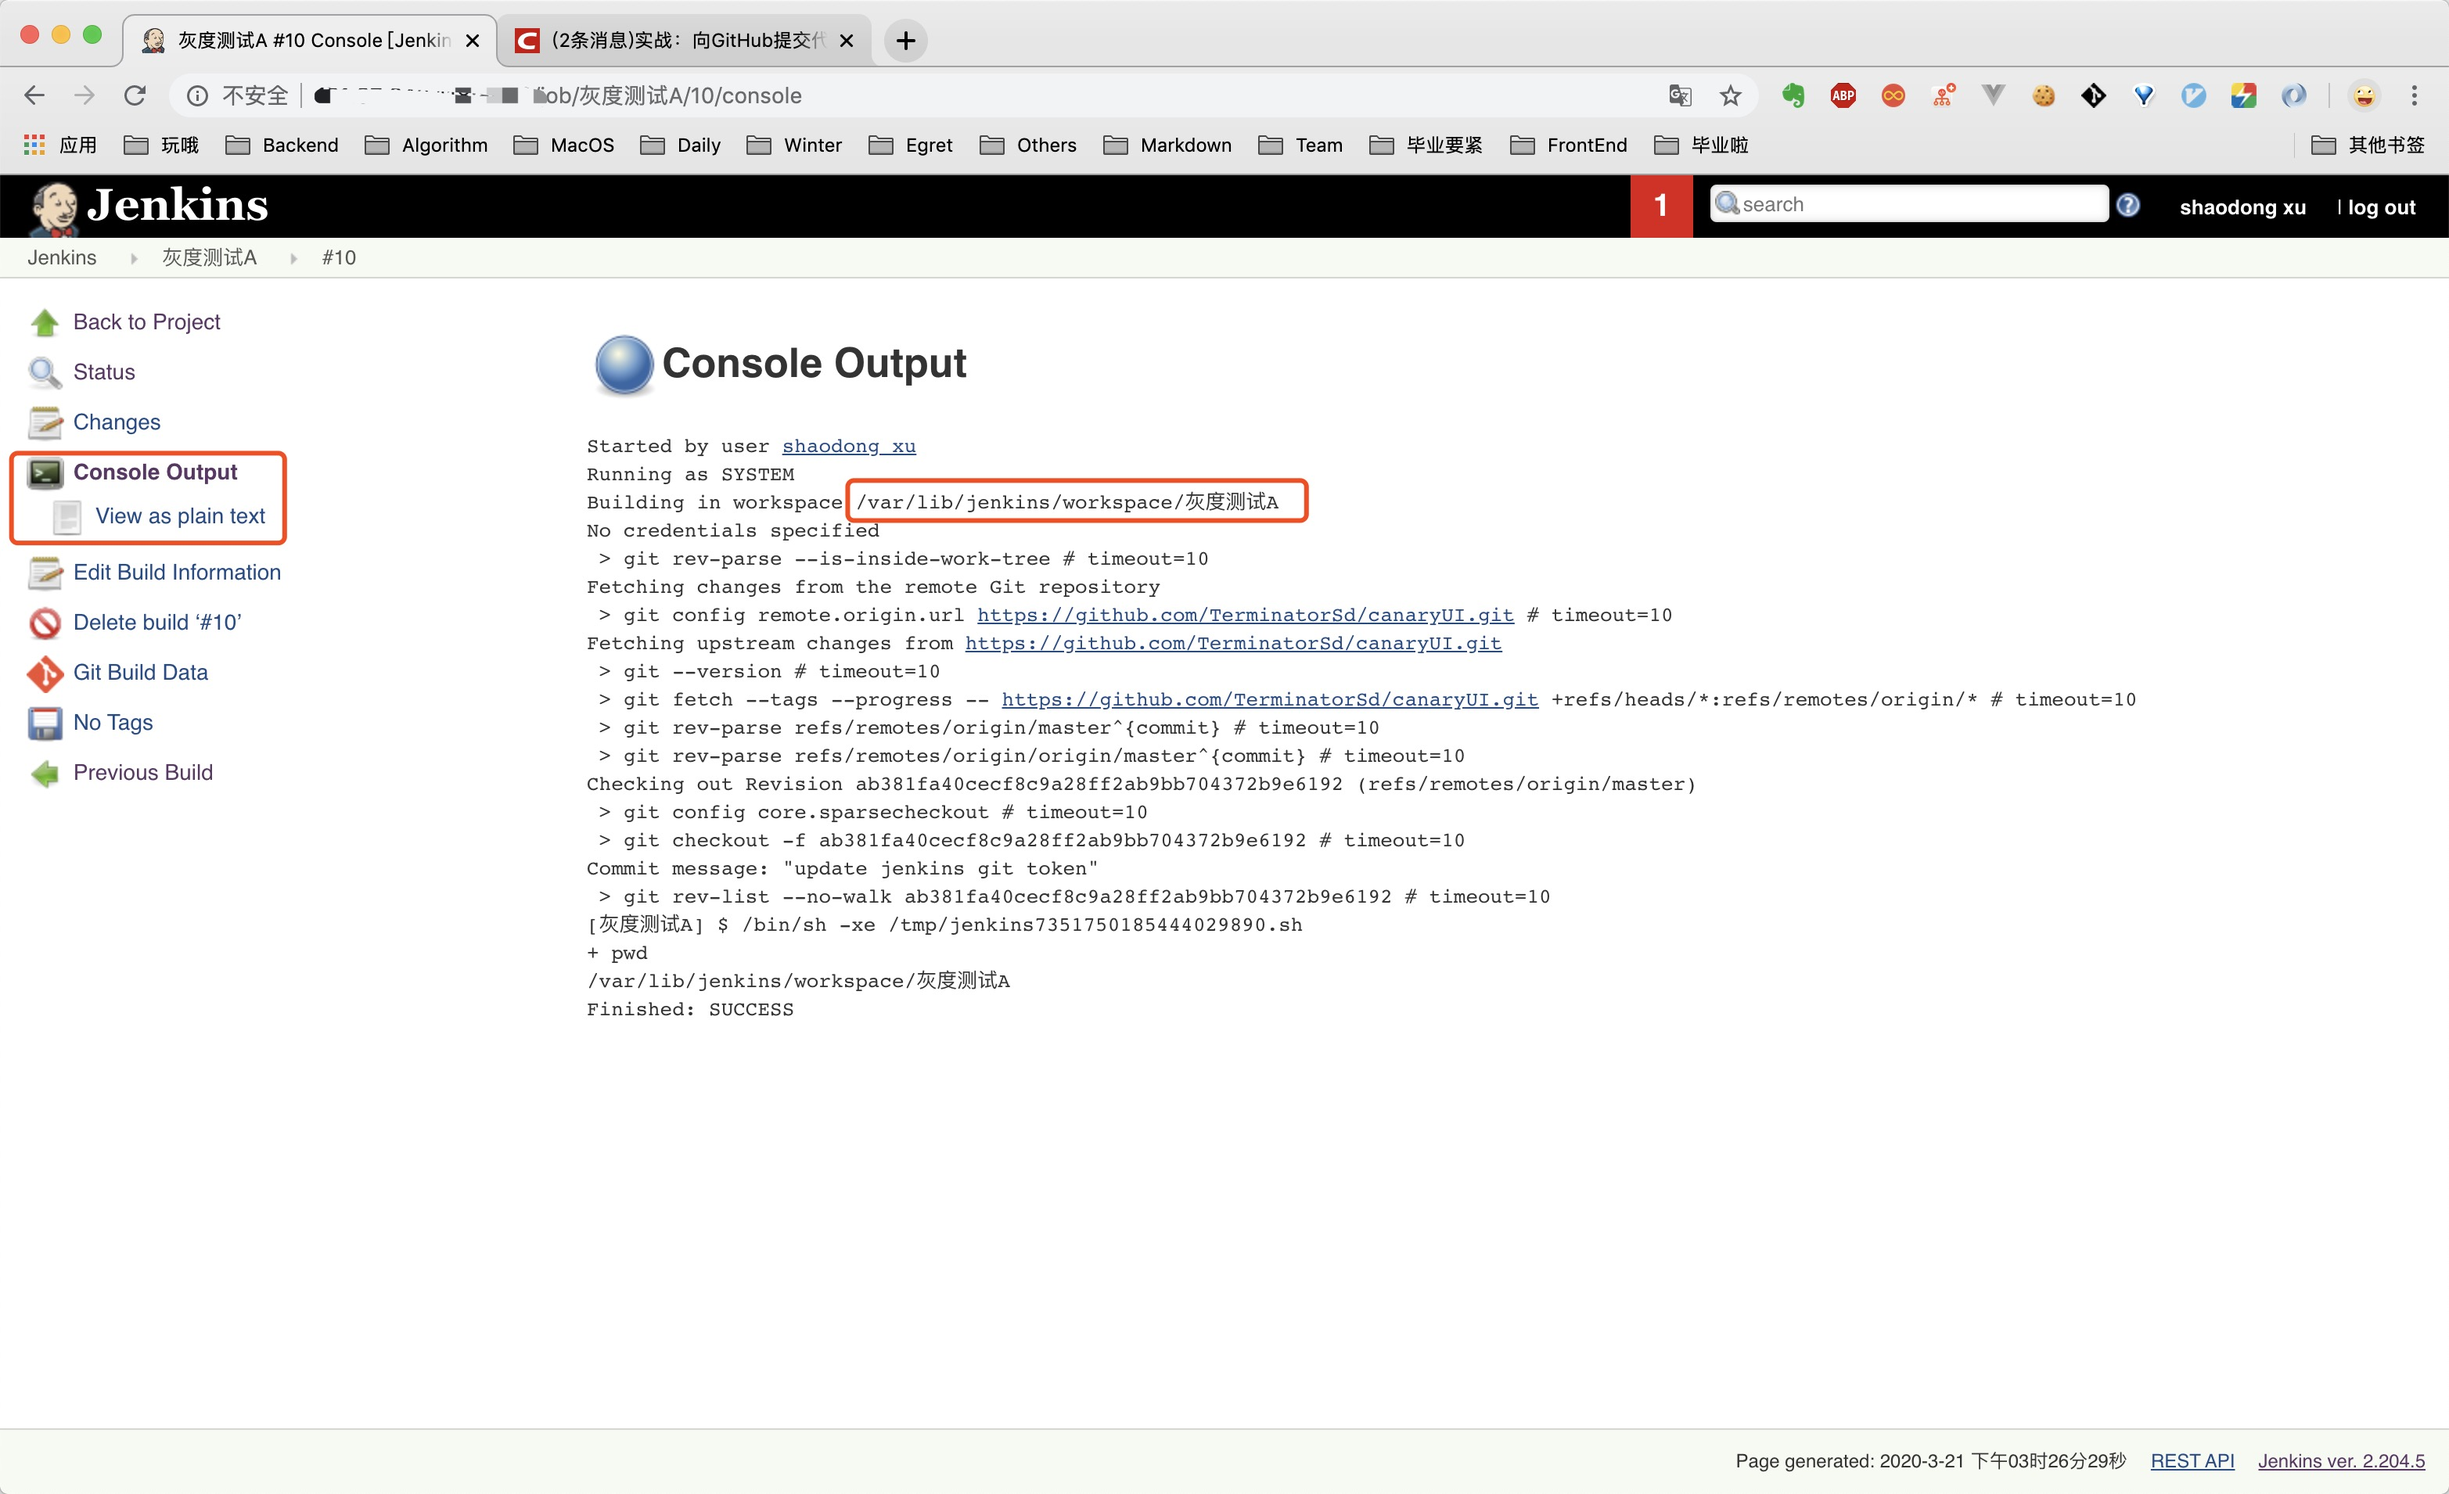
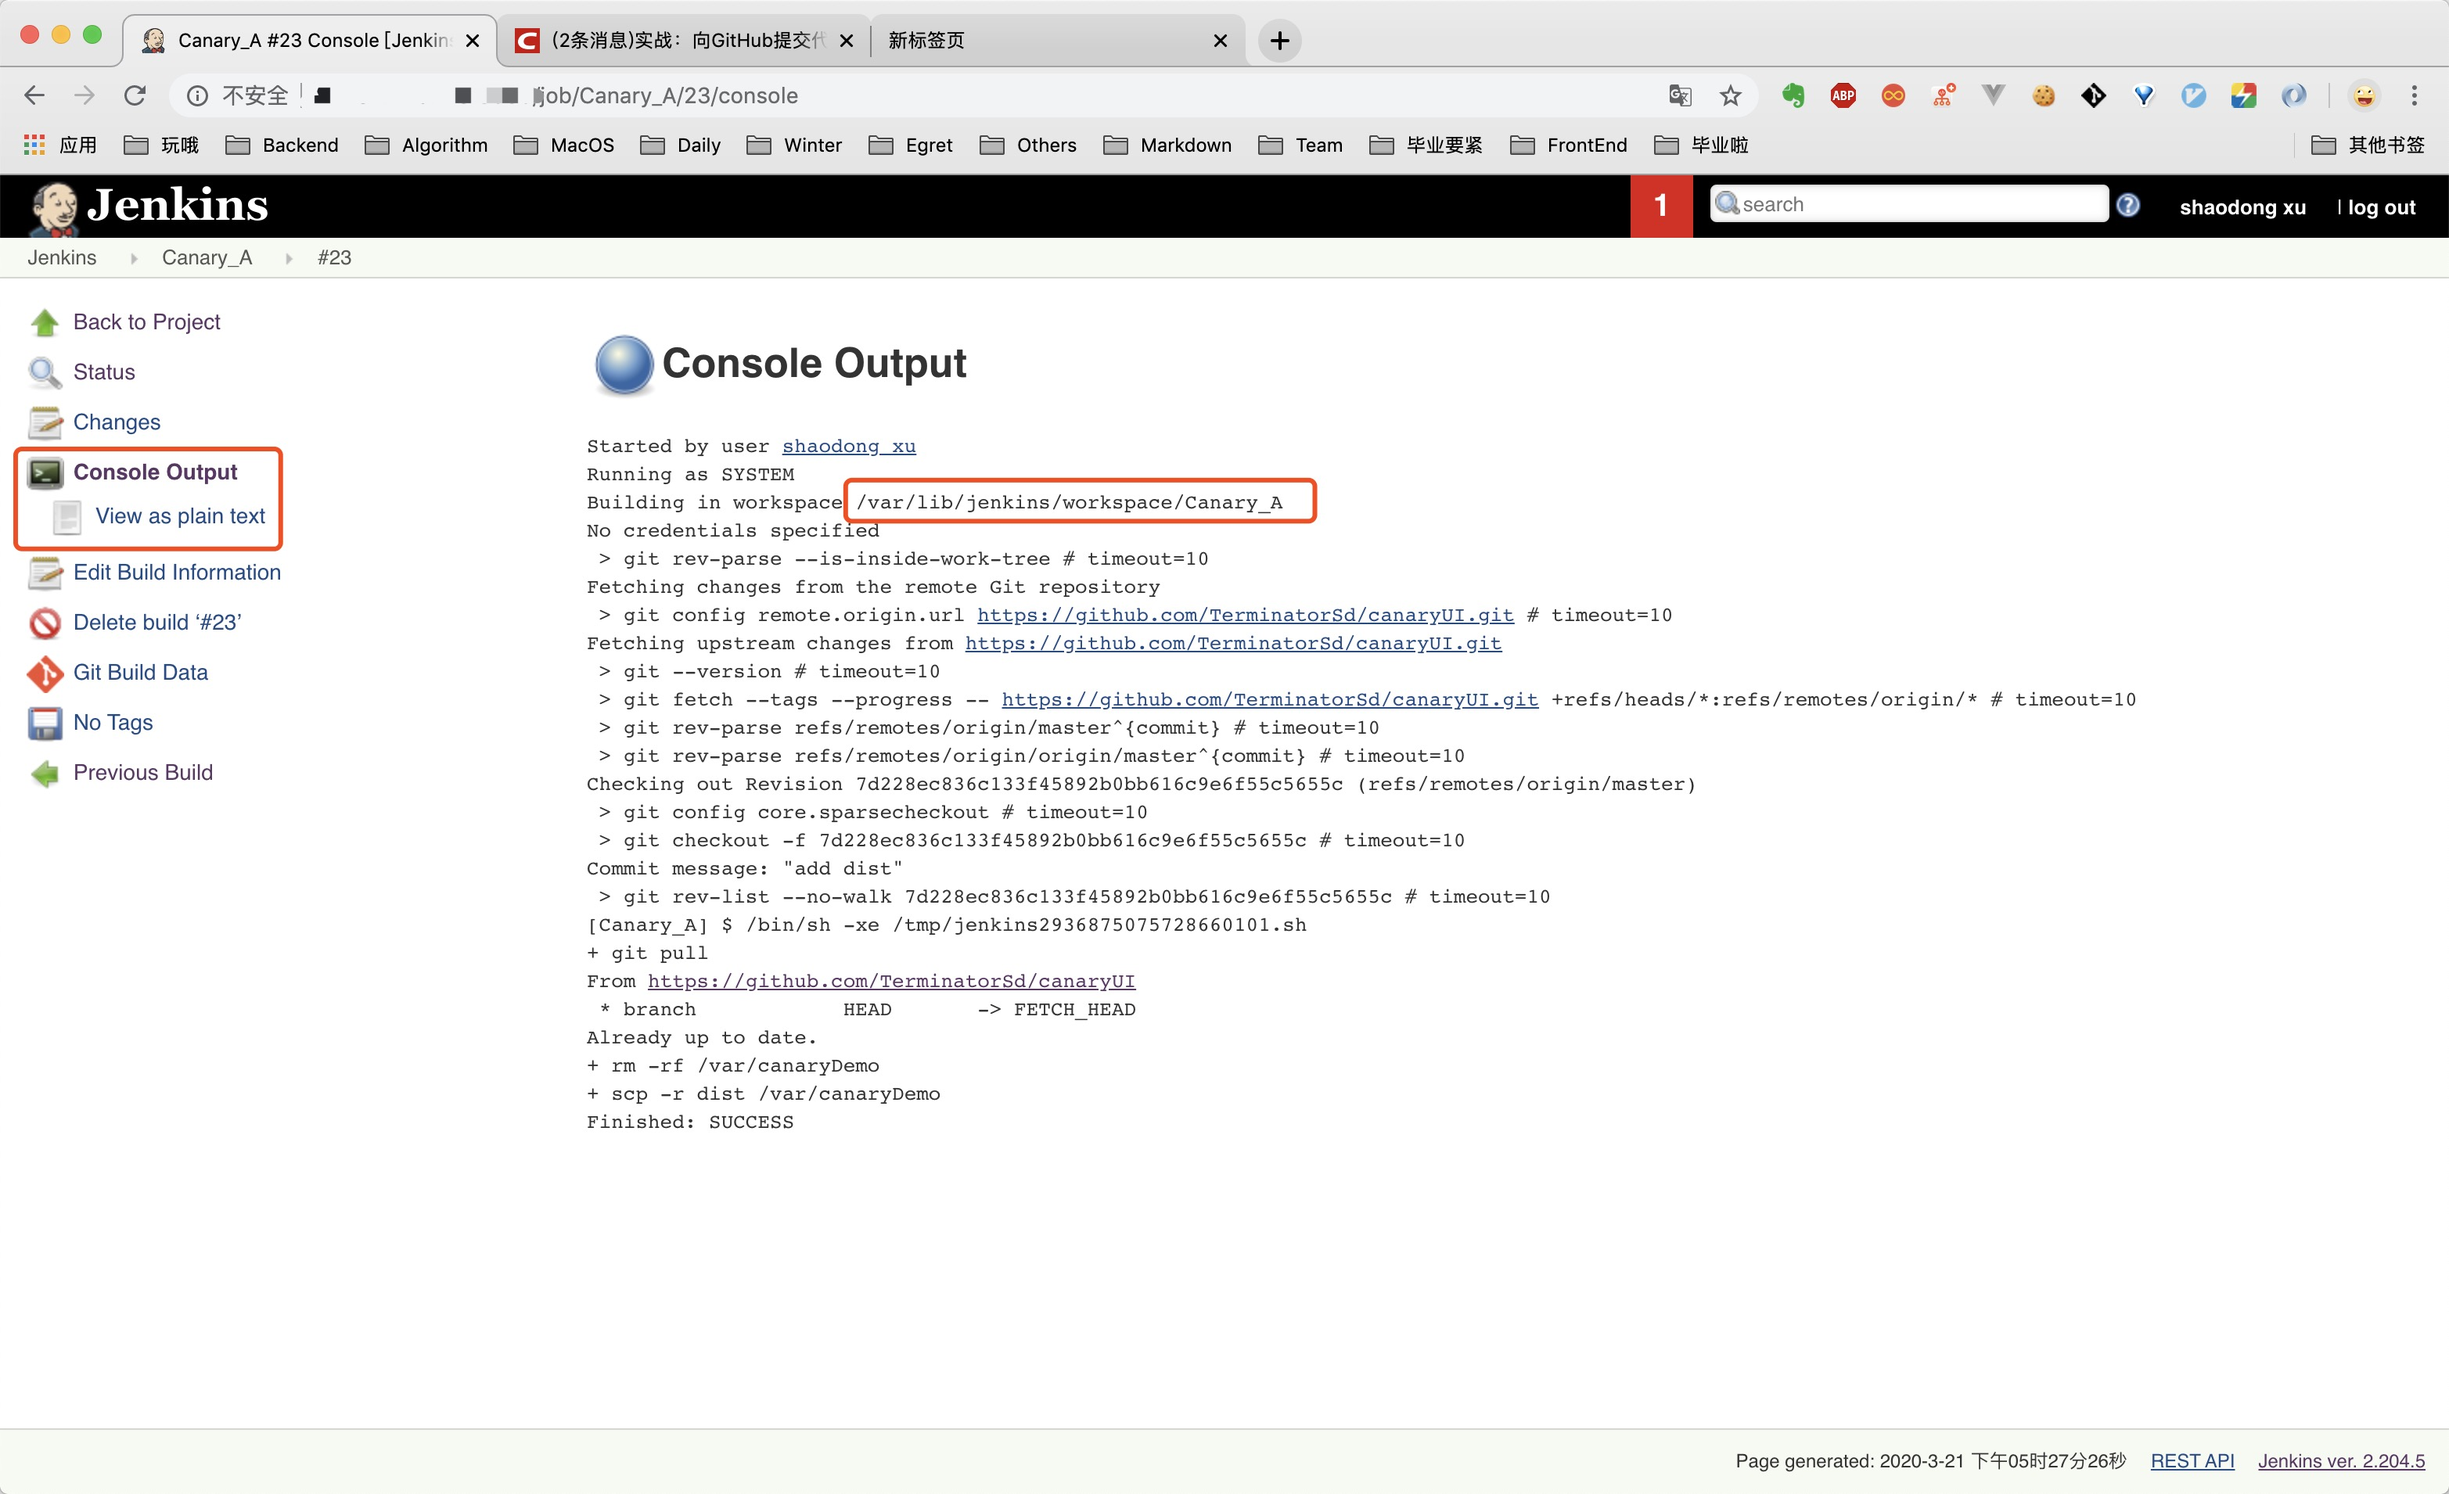
update canary

diff --git a/从零搭建一个灰度发布环境.md b/从零搭建一个灰度发布环境.md
@@ -170,7 +170,73 @@ server {
 ```
 此时，灰度流量和正常流量都会随机分配到AB两边的机器。下面，我们通过建立Jenkins 任务执行Nginx 文件修改的方式实现灰度发布。
 
-## 04 完成灰度发布
+## 04 实现灰度发布
+
+### 创建Jenkins任务
+在创建Jenkins任务之前我们先梳理一下要达到灰度发布的目标需要哪几个任务，以及每个任务负责完成什么事情。灰度发布一般遵循这样的流程（假设我们有AB两台服务器用于提供生产环境的服务，我们称之为AB边）：
+（1）新代码部署到A边
+（2）符合灰度策略的小部分流量切到A边，剩余大部分流量仍去往B边
+（3）手动验证A边功能是否正常可用
+（4）验证无误后，大部分流量转到A边，灰度流量去往B边
+（5）手动验证B边功能是否正常可用
+（6）验证无误后，流量像往常一样均分到AB边
+
+#### 任务拆解
+通过上述的拆解，我们得出灰度发布的6个步骤，其中（3）和（5）是需要手动验证的环节，所以我们以这两个任务为分割点，建立三个Jenkins 任务（Jenkins 任务建立在A 边机器上）如下：
+（1）Canary_A（灰度测试A），这个任务又包含两个部分，更新A边的代码，然后修改流量分发策略使得灰度流量到达A，其他流量到达B
+（2）Canary_AB（上线A灰度测试B），更新B边代码，灰度流量达到B，其他流量到达A
+（3）Canary_B（上线B），所有流量均分到AB
+
+![jenkins-create](./img/jenkins-create.jpg)
+
+#### 创建任务
+先按照任务拆解部分的设定创建三个FreeStyle 类型的Jenkins 任务，记得使用英文名字，中文名字后面建文件夹比较麻烦。任务详情信息可以不填，直接保存就好，下一步我们再来配置每个任务的具体信息。
+![jenkins-free](./img/jenkins-free.jpg)
+
+#### 配置任务
+现在已经创建好了三个任务，先点击进入每一个任务进行一次空的构建（否则后面可能导致修改后的构建任务无法启动），然后我们来对每个任务进行信息的配置。
+
+![jenkins-task-ok](./img/jenkins-task-ok.jpg)
+
+现代前端项目都要进行构建打包这一步。但是廉价的1核2G的云服务器在完成构建方面有些力不从心，CPU 经常爆表。**所以我们在这里把打包出得出的生产包纳入git 管理，每次的代码更新会同步最新的生产包到github，因此Jenkins 任务把生产包拉下来，放在指定位置即可完成一次新代码的部署。**
+
+这一步操作，其实我们在之前就已经完成了，我们在上面打了两份tilte 不一样的生产包，此时可以派上用场了。
+
+首先来配置灰度测试A，这个任务内容上面也基本讲清楚了，首先要关联该任务到远程的github 仓库（需要手动创建一个，存放上面打包的B-CanaryDemo，并命名为dist）让它知道可以去哪里拉取最新代码。
+
+![jenkins-no-git](./img/jenkins-no-git.jpg)
+
+执行一次构建任务（在git fetch 那一步耗时不稳定，有时比较久），然后点击本次构建进去查看Console Output，可以确定执行Jenkins 任务的位置是位于服务器上的/var/lib/jenkins/workspace/Canary_A
+
+![jenkins-build](./img/jenkins-build.jpg)
+
+![jenkins-loc](./img/jenkins-loc.jpg)
+
+继续编辑灰度测试A 任务，添加build shell，也就是每次任务执行时要执行的命令：
+（1）先拉取最新的代码
+（2）把代码根目录下的dist目录复制到部署代码的位置，这里我们指定的位置是/var/canaryDemo
+（3）**改Nginx 配置**使灰度流量到达A边 
+
+这一步填写的shell 命令在使用jenkins 用户执行时可能会遇到权限问题，可以先用root 用户登录，把/var 目录的归属改为jenkins 用户.
+```
+git pull
+rm -rf /var/canaryDemo
+scp -r dist /var/canaryDemo
+```
+
+![jenkins-shell](./img/jenkins-shell.jpg)
+
+灰度测试A 任务内容配置完成，接下来一次配置上线A 灰度测试B 和上线B。
+
+灰度测试B 的要执行的任务是把最新的代码拉到A 边（因为我们的Jenkins 任务都是建立在A 边的），复制dist 下的代码到B 边Nginx 指定访问位置，然后修改A 边Nginx 配置，使灰度流量到达B 边。
+```
+```
+
+上线B 则是修改A 边Nginx 配置是所有流量均分到AB 边.
+```
+```
+
+至此，我们就从零到一搭建了一个灰度发布环境。在代码更新后，通过手动执行Jenkins 任务的方式实现灰度部署和手工测试，保证新功能平滑上线。
 
 ## 总结
 

diff --git a/Jenkins.md b/Jenkins.md
@@ -30,55 +30,6 @@ service jenkins start/stop/restart
 开始使用Jenkins
 ![jenkins-start](./img/jenkins-start.jpg)
 
-### 创建Jenkins任务
-在创建Jenkins任务之前我们先梳理一下要达到灰度发布的目标需要哪几个任务，以及每个任务负责完成什么事情。灰度发布一般遵循这样的流程（假设我们有AB两台服务器用于提供生产环境的服务，我们称之为AB边）：
-（1）新代码部署到A边
-（2）符合灰度策略的小部分流量切到A边，剩余大部分流量仍去往B边
-（3）手动验证A边功能是否正常可用
-（4）验证无误后，大部分流量转到A边，灰度流量去往B边
-（5）手动验证B边功能是否正常可用
-（6）验证无误后，流量像往常一样均分到AB边
-
-#### 任务拆解
-通过上述的拆解，我们得出灰度发布的6个步骤，其中（3）和（5）是需要手动验证的环节，所以我们以这两个任务为分割点，建立三个Jenkins 任务（Jenkins 任务建立在A 边机器上）如下：
-（1）灰度测试A，这个任务又包含两个部分，更新A边的代码，然后修改流量分发策略使得灰度流量到达A，其他流量到达B
-（2）上线A灰度测试B，更新B边代码，灰度流量达到B，其他流量到达A
-（3）上线B，所有流量均分到AB
-
-![jenkins-create](./img/jenkins-create.jpg)
-
-#### 创建任务
-先按照任务拆解部分的设定创建三个FreeStyle 类型的Jenkins 任务，记得使用英文名字，中文名字后面建文件夹比较麻烦。任务详情信息可以不填，直接保存就好，下一步我们再来配置每个任务的具体信息。
-![jenkins-free](./img/jenkins-free.jpg)
-
-#### 配置任务
-现在已经创建好了三个任务，先点击进入每一个任务进行一次空的构建（否则后面可能导致修改后的构建任务无法启动），然后我们来对每个任务进行信息的配置。
-
-![jenkins-task-ok](./img/jenkins-task-ok.jpg)
-
-首先是灰度测试A，灰度测试A要做的事情是下载最新代码到Jenkins 所在的服务器，然后修改流量分发策略（A 边机器的Nginx 配置），使得灰度流量访问A 边的最新代码，其余流量访问B 边的代码。
-
-现代前端项目都要进行构建打包这一步。但是廉价的1核2G的云服务器在完成构建方面有些力不从心，CPU 经常爆表。**所以我们在这里把打包出得出的生产包纳入git 管理，每次的代码更新会同步最新的生产包到github，因此Jenkins 任务把生产包拉下来，放在指定位置即可完成一次新代码的部署。**
-
-讲到这里，灰度测试A 的任务内容也基本讲清楚了，开始对任务进行配置，首先要关联该任务到远程的github 仓库让它知道可以去哪里拉取最新代码。
-
-![jenkins-no-git](./img/jenkins-no-git.jpg)
-
-执行一次构建任务（在git fetch 那一步耗时不稳定，有时比较久），然后点击本次构建进去查看Console 输出，可以确定执行Jenkins 任务的位置是位于服务器上的/var/lib/jenkins/workspace/your_task_name。
-
-![jenkins-build](./img/jenkins-build.jpg)
-
-![jenkins-loc](./img/jenkins-loc.jpg)
-
-继续编辑灰度测试A 任务，添加build shell，也就是每次任务执行时要执行的命令：先拉取最新的代码，然后把代码根目录下的dist目录复制到部署代码的位置，这里我们指定的位置是/var/canaryDemo。这一步填写的shell 命令在使用jenkins 用户执行时可能会遇到权限问题，可以先用root 用户登录，把/var 目录的归属改为jenkins 用户.
-```
-git pull
-rm -rf /var/canaryDemo
-scp -r dist /var/canaryDemo
-```
-
-![jenkins-shell](./img/jenkins-shell.jpg)
-
 
 ### 可能问题
 Jenkins版本和Java版本不匹配，会导致一下问题，无法登录，解决方法按上面说的寻找匹配版本
